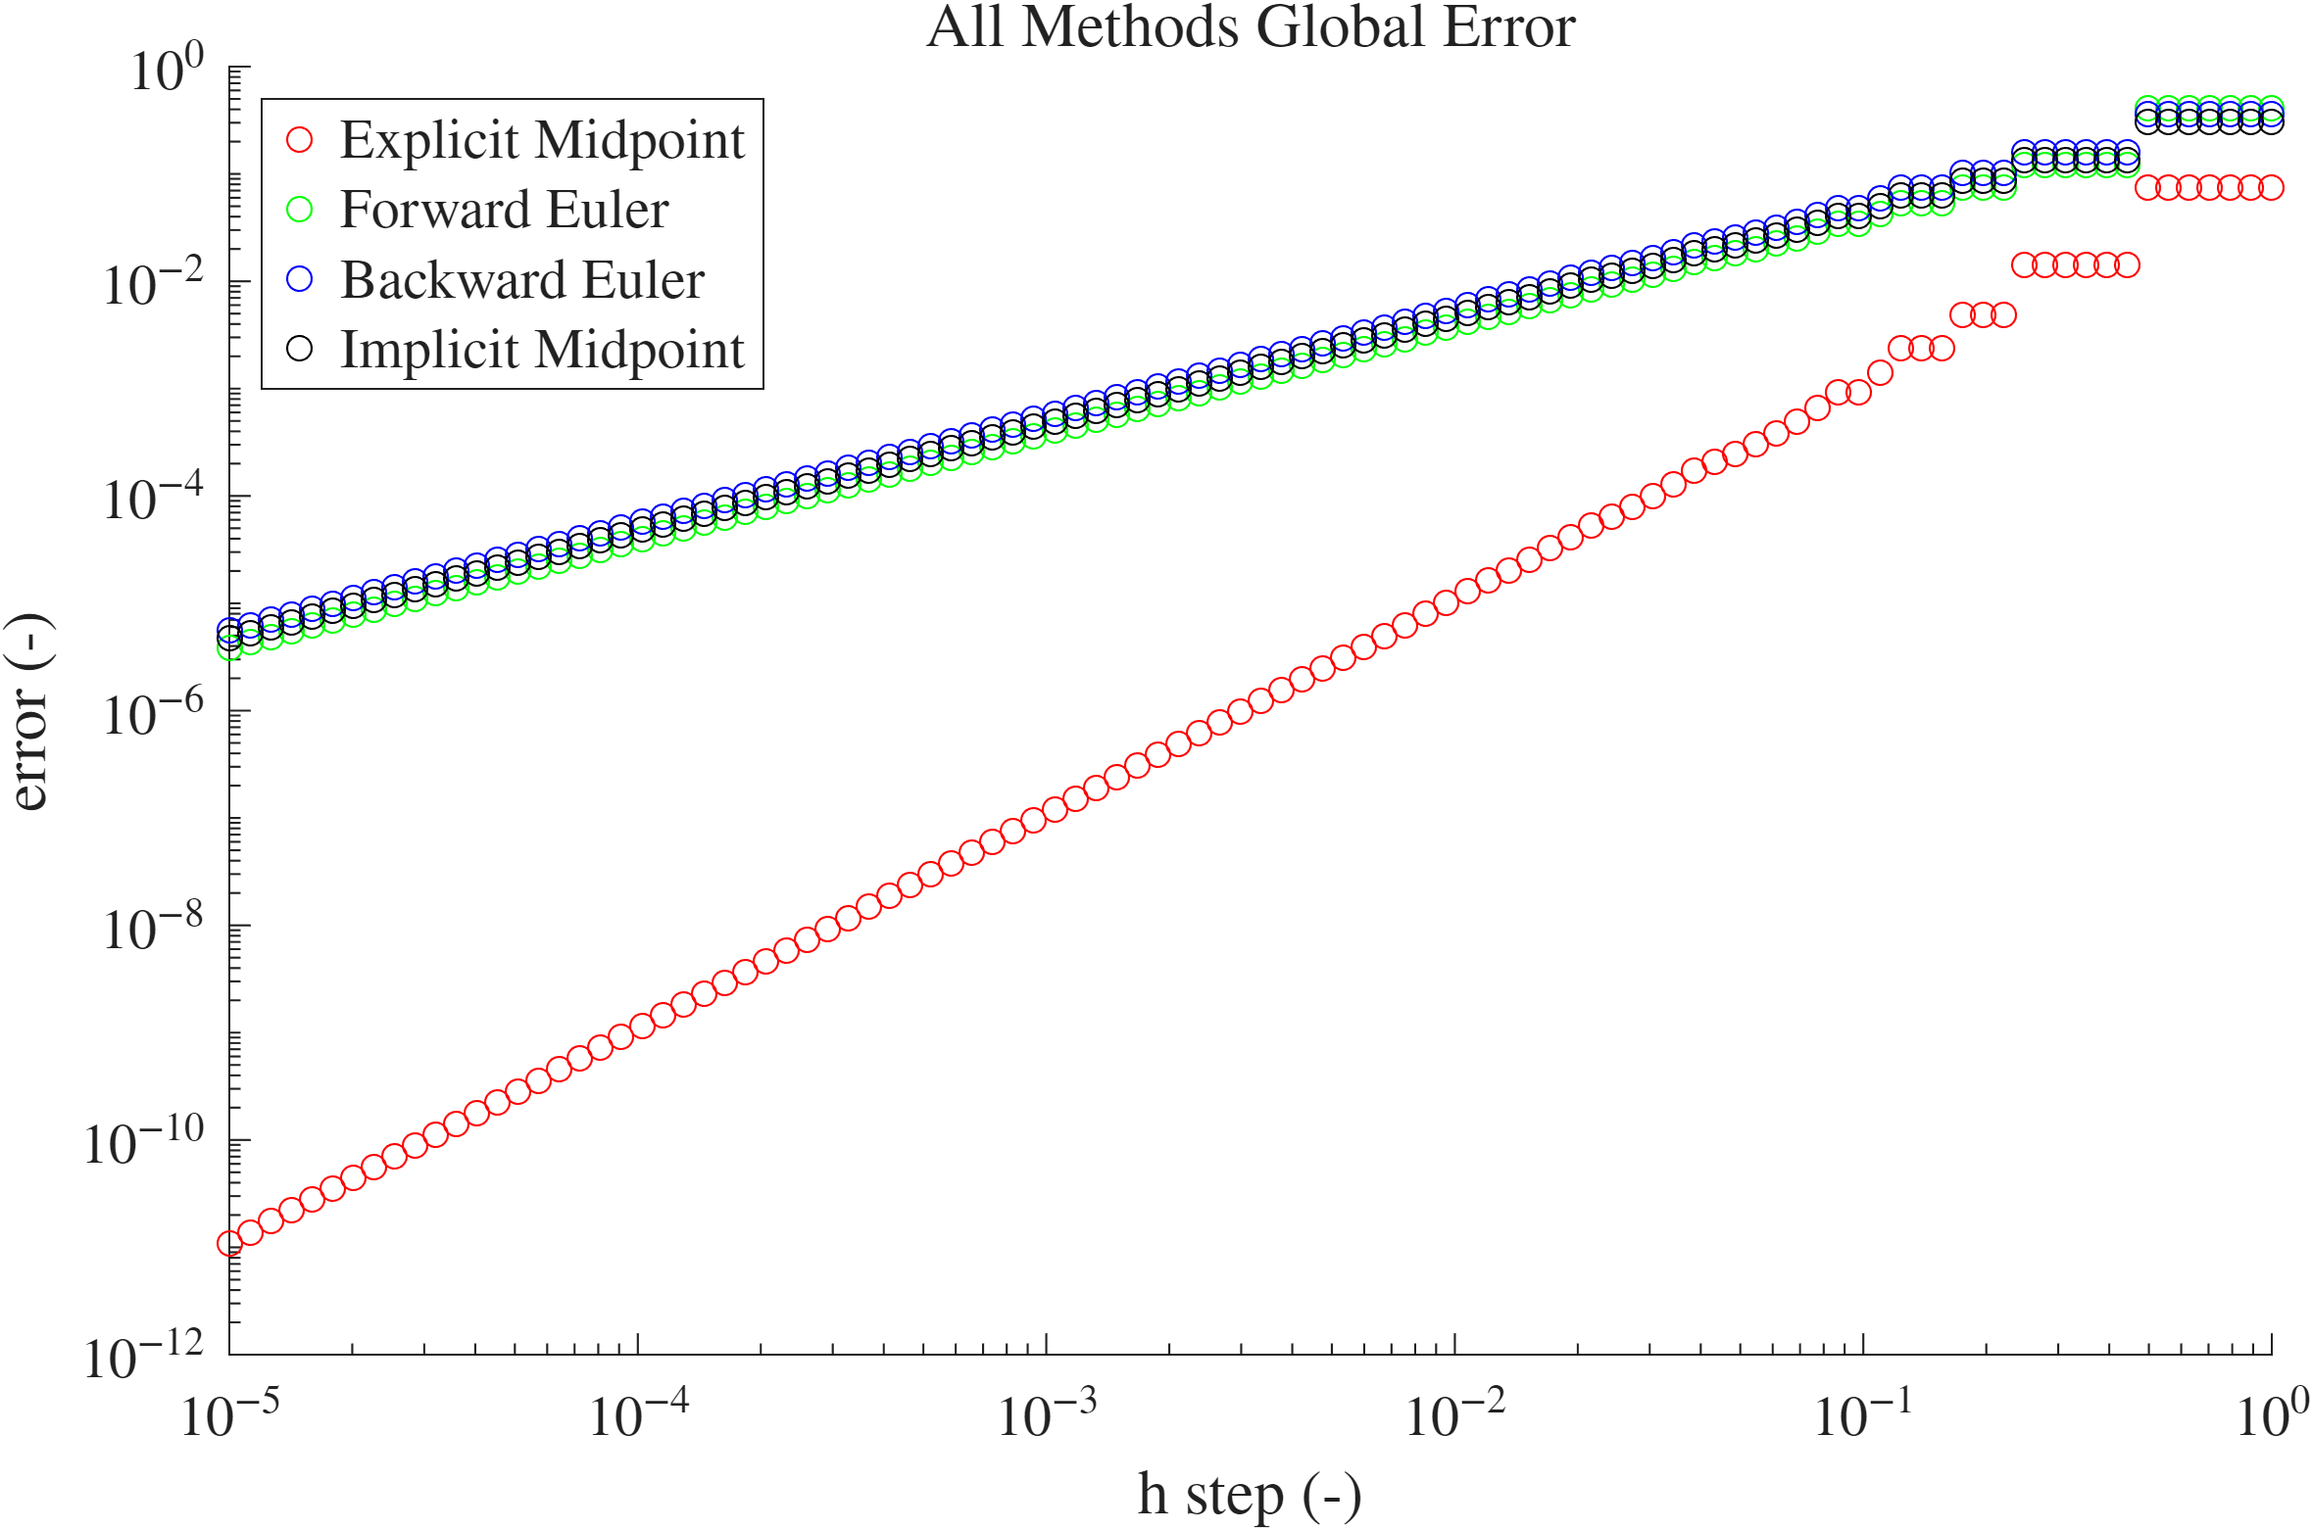
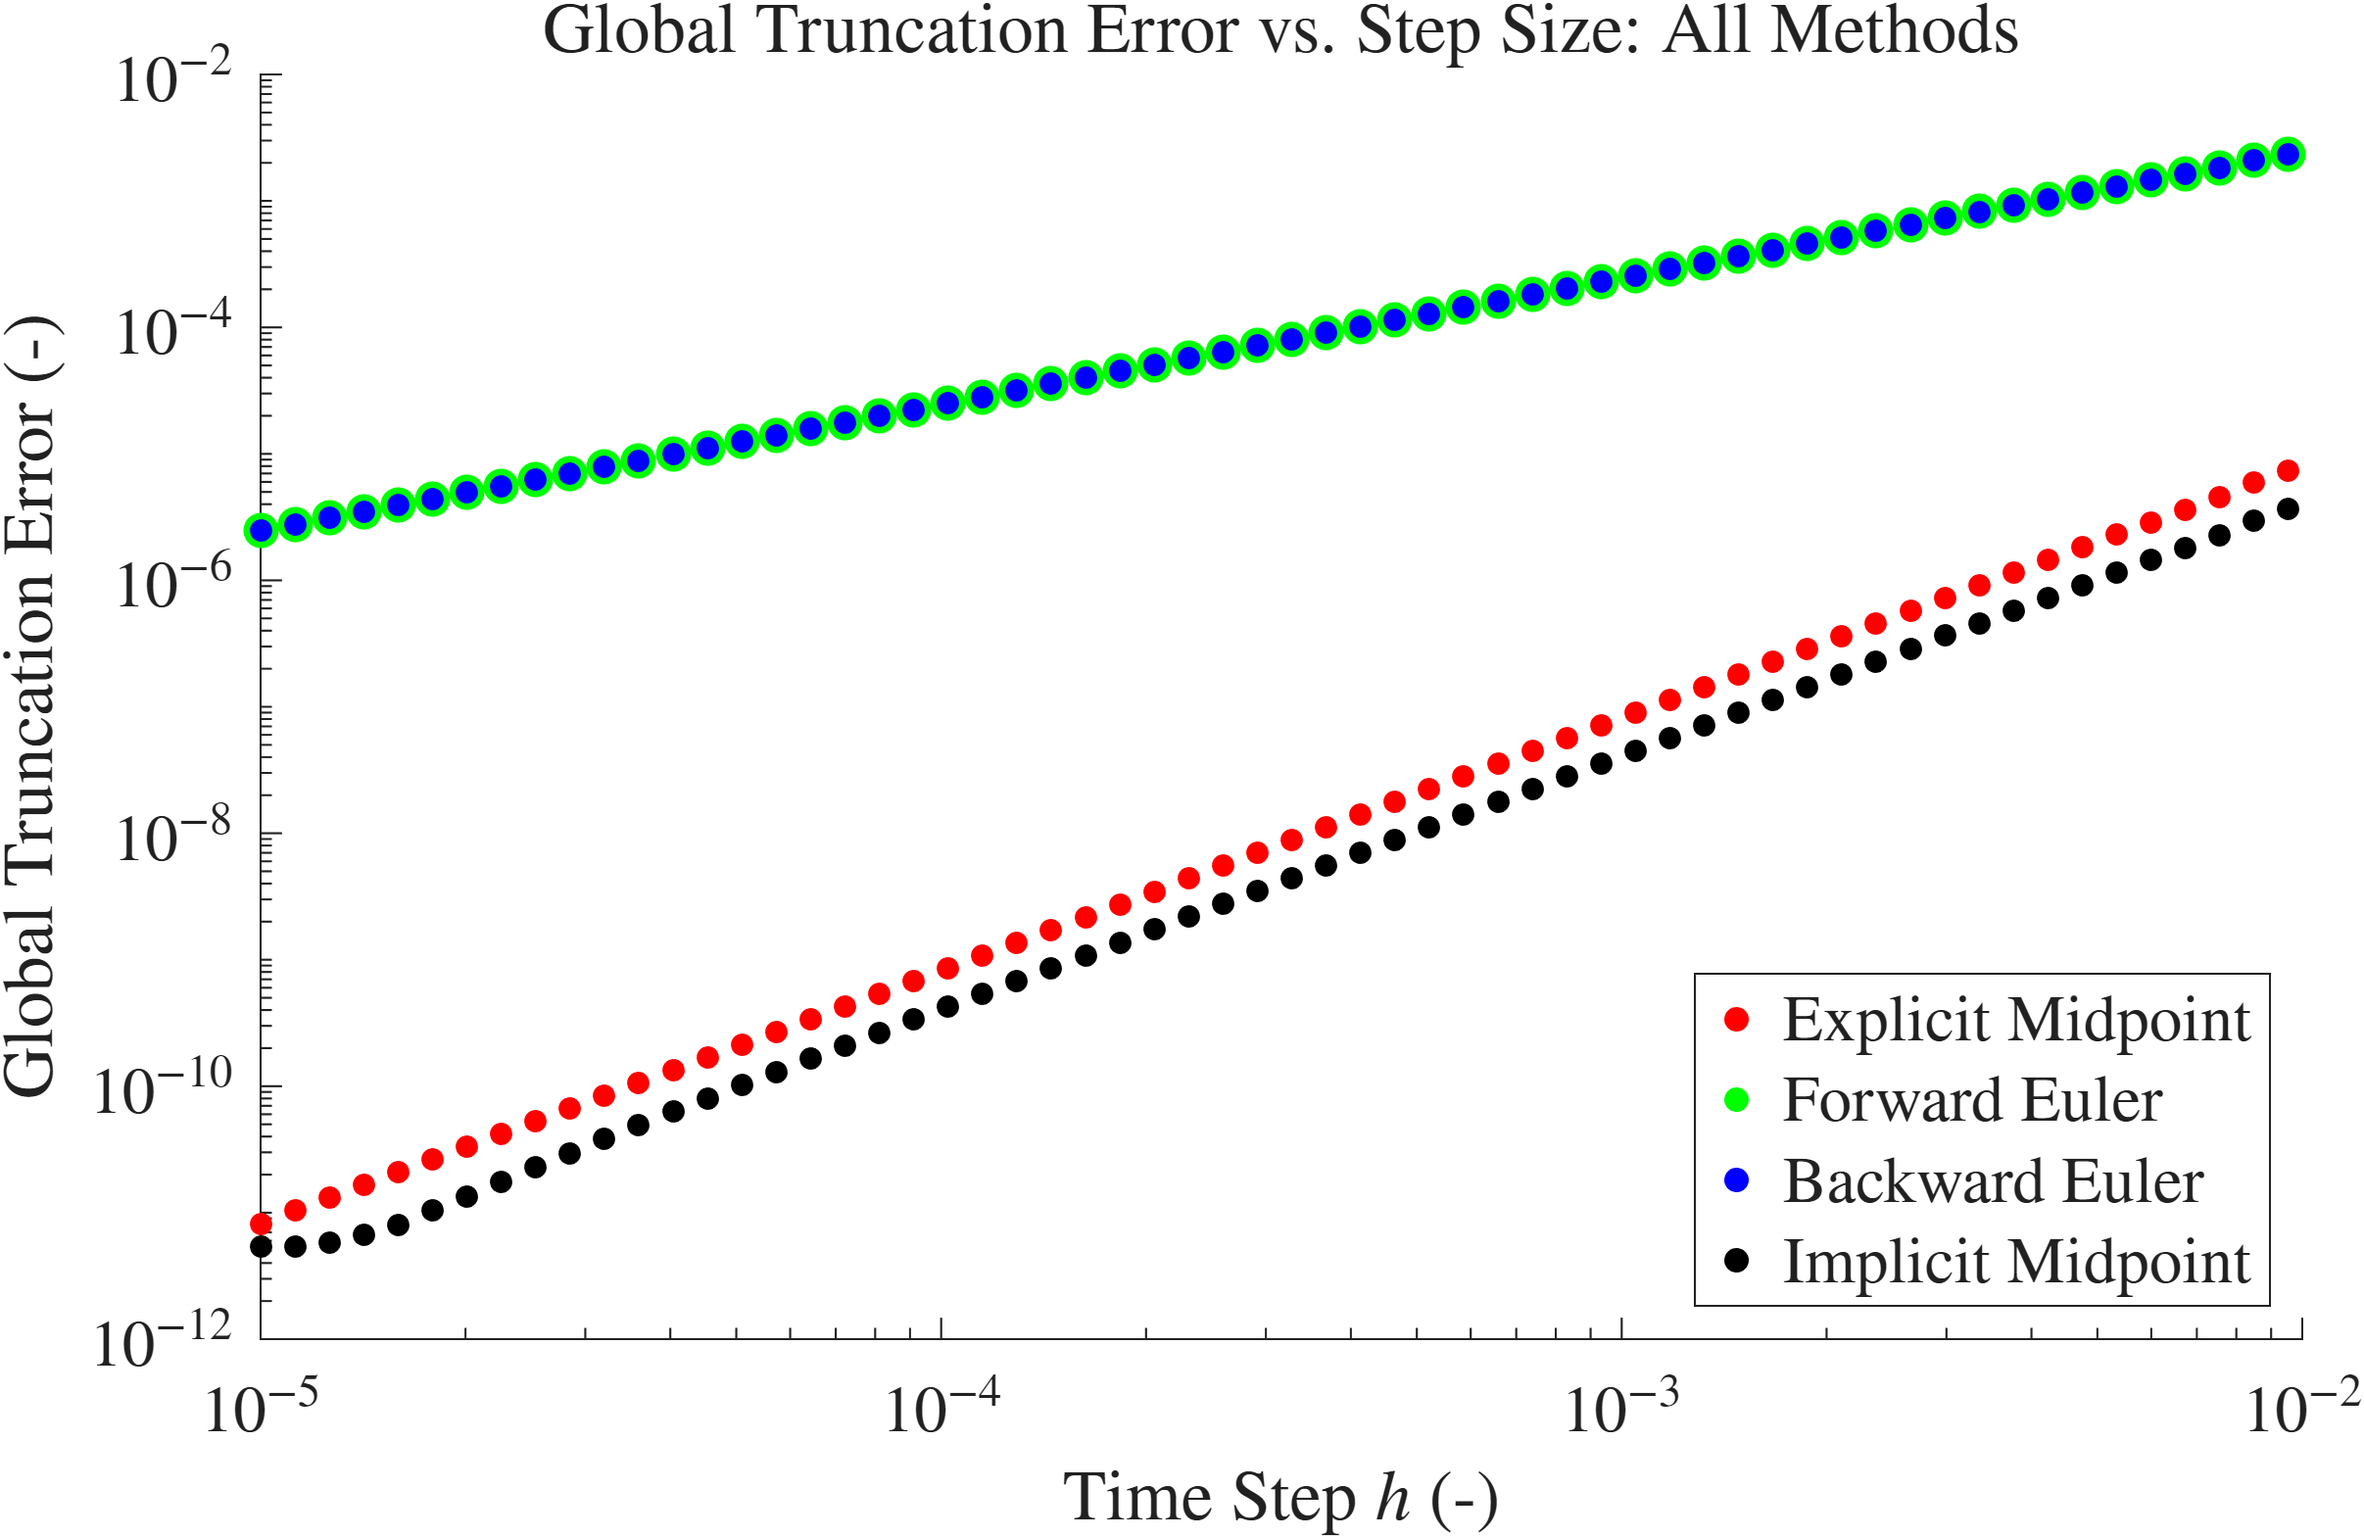
all methods global error plots and filtering

diff --git a/global_error_all.m b/global_error_all.m
@@ -1,10 +1,10 @@
 t_ref = [0, .492];
 h_step = logspace(-5, 0, 100);
 
-test_func = @rate_func01;
+test_func = @rate_func02;
 
-XA = solution01(t_ref(1));
-gt = solution01(t_ref(end));
+XA = solution02(t_ref(1));
+gt = solution02(t_ref(end));
 
 fe_err_list = [];
 mp_err_list = [];
@@ -44,8 +44,46 @@ for i = 1:length(h_step)
 
 end
 
-% filtered_h_step = h_step(1:end-4);
-% filt_length = length(filtered_h_step);
+filtered_h_step = h_step(h_step <= 1e-2);
+filt_length = length(filtered_h_step);
+
+filtered_fe_err = fe_err_list(1:filt_length);
+filtered_mp_err = mp_err_list(1:filt_length);
+filtered_be_err = be_err_list(1:filt_length);
+filtered_imp_err = imp_err_list(1:filt_length);
+filtered_gt_err = gt_err_list(1:filt_length);
+
+mp_p = polyfit(log(filtered_h_step), log(filtered_mp_err), 1)
+fe_p = polyfit(log(filtered_h_step), log(filtered_fe_err), 1)
+be_p = polyfit(log(filtered_h_step), log(filtered_be_err), 1)
+imp_p = polyfit(log(filtered_h_step), log(filtered_imp_err), 1)
+
+gt_p = polyfit(log(filtered_h_step), log(filtered_gt_err), 1)
+
+
+figure();
+scatter(filtered_h_step, filtered_mp_err, 30, "filled", "r")
+hold on
+scatter(filtered_h_step, filtered_fe_err, 75, "filled", "g")
+scatter(filtered_h_step, filtered_be_err, 30, "filled", "b");
+scatter(filtered_h_step, filtered_imp_err, 30, "filled", "k");
+% scatter(h_step, gt_err_list);
+hold off
+set(gca,'xscale','log')
+set(gca,'yscale','log')
+legend(["Explicit Midpoint","Forward Euler", "Backward Euler", "Implicit Midpoint"], Location = "southeast", Interpreter="latex", FontSize=16)
+xlabel("Time Step $h$ (-)", Interpreter="latex", FontSize=16)
+ylabel("Global Truncation Error (-)", Interpreter="latex", FontSize=16)
+% axis([0 4*pi -1.5 1.5])
+title("Global Truncation Error vs. Step Size: All Methods", Interpreter='latex', FontSize=18)
+ax = gca;
+ax.FontSize = 16;
+ax.XAxis.TickLabelInterpreter = 'Latex';
+ax.YAxis.TickLabelInterpreter = 'Latex';
+exportgraphics(gca, 'plots/all_methods_global_error_testfunc1.png', 'Resolution',300)
+
+% filtered_eval = fe_evals_list(fe_evals_list >= 1e4);
+% filt_length = length(filtered_eval);
 % 
 % filtered_fe_err = fe_err_list(1:filt_length);
 % filtered_mp_err = mp_err_list(1:filt_length);
@@ -58,60 +96,31 @@ end
 % filtered_be_eval = be_evals_list(1:filt_length);
 % filtered_imp_eval = imp_evals_list(1:filt_length);
 
-mp_p = polyfit(log(h_step), log(mp_err_list), 1)
-fe_p = polyfit(log(h_step), log(fe_err_list), 1)
-be_p = polyfit(log(h_step), log(be_err_list), 1)
-imp_p = polyfit(log(h_step), log(imp_err_list), 1)
-
-gt_p = polyfit(log(h_step), log(gt_err_list), 1)
-
 mp_eval_p = polyfit(log(mp_evals_list), log(mp_err_list), 1)
 fe_eval_p = polyfit(log(fe_evals_list), log(fe_err_list), 1)
 be_eval_p = polyfit(log(be_evals_list), log(be_err_list), 1)
 imp_eval_p = polyfit(log(imp_evals_list), log(imp_err_list), 1)
 
-
-% figure();
-% scatter(h_step, mp_err_list, "r")
-% hold on
-% scatter(h_step, fe_err_list, "g")
-% scatter(h_step, be_err_list, "b");
-% scatter(h_step, imp_err_list, "k");
-% % scatter(h_step, gt_err_list);
-% hold off
-% set(gca,'xscale','log')
-% set(gca,'yscale','log')
-% legend(["Explicit Midpoint","Forward Euler", "Backward Euler", "Implicit Midpoint"], Location = "northwest", Interpreter="latex", FontSize=14)
-% xlabel("h step (-)", Interpreter="latex", FontSize=14)
-% ylabel("error (-)", Interpreter="latex", FontSize=14)
-% % axis([0 4*pi -1.5 1.5])
-% title("All Methods Global Error", Interpreter='latex', FontSize=16)
-% ax = gca;
-% ax.FontSize = 14;
-% ax.XAxis.TickLabelInterpreter = 'Latex';
-% ax.YAxis.TickLabelInterpreter = 'Latex';
-% % exportgraphics(gca, 'plots/all_methods_global_error_testfunc1.png', 'Resolution',300)
-
 figure();
-scatter(mp_evals_list, mp_err_list, "r")
+scatter(mp_evals_list, mp_err_list, 40, "filled","r")
 hold on
-scatter(fe_evals_list, fe_err_list, "g")
-scatter(be_evals_list, be_err_list, "b")
-scatter(imp_evals_list, imp_err_list, "k")
+scatter(fe_evals_list, fe_err_list, 40, "filled", "g")
+scatter(be_evals_list, be_err_list, 40, "filled", "b")
+scatter(imp_evals_list, imp_err_list, 40, "filled", "k")
 % scatter(h_step, gt_err_list);
 hold off
 set(gca,'xscale','log')
 set(gca,'yscale','log')
-legend(["Explicit Midpoint","Forward Euler", "Backward Euler", "Implicit Midpoint"], Location = "northeast", Interpreter="latex", FontSize=14)
-xlabel("Number of Rate Function Calls (-)", Interpreter="latex", FontSize=14)
-ylabel("Error (-)", Interpreter="latex", FontSize=14)
+legend(["Explicit Midpoint","Forward Euler", "Backward Euler", "Implicit Midpoint"], Location = "northeast", Interpreter="latex", FontSize=16)
+xlabel("Number of Rate Function Calls (-)", Interpreter="latex", FontSize=16)
+ylabel("Global Truncation Error (-)", Interpreter="latex", FontSize=16)
 % axis([0 4*pi -1.5 1.5])
-title("All Methods Global Error", Interpreter='latex', FontSize=16)
+title("Global Truncation Error vs. Number of Rate Function Calls: All Methods", Interpreter='latex', FontSize=18)
 ax = gca;
-ax.FontSize = 14;
+ax.FontSize = 16;
 ax.XAxis.TickLabelInterpreter = 'Latex';
 ax.YAxis.TickLabelInterpreter = 'Latex';
-% exportgraphics(gca, 'plots/all_methods_global_error_num_evals_testfunc1.png', 'Resolution',300)
+exportgraphics(gca, 'plots/all_methods_global_error_num_evals_testfunc1.png', 'Resolution',300)
 
 
 

diff --git a/local_error_all.m b/local_error_all.m
@@ -65,7 +65,7 @@ ax = gca;
 ax.FontSize = 16;
 ax.XAxis.TickLabelInterpreter = 'Latex';
 ax.YAxis.TickLabelInterpreter = 'Latex';
-% exportgraphics(gca, 'plots/all_methods_local_error_testfunc1.png', 'Resolution',300)
+exportgraphics(gca, 'plots/all_methods_local_error_testfunc1.png', 'Resolution',300)
 
 
 
